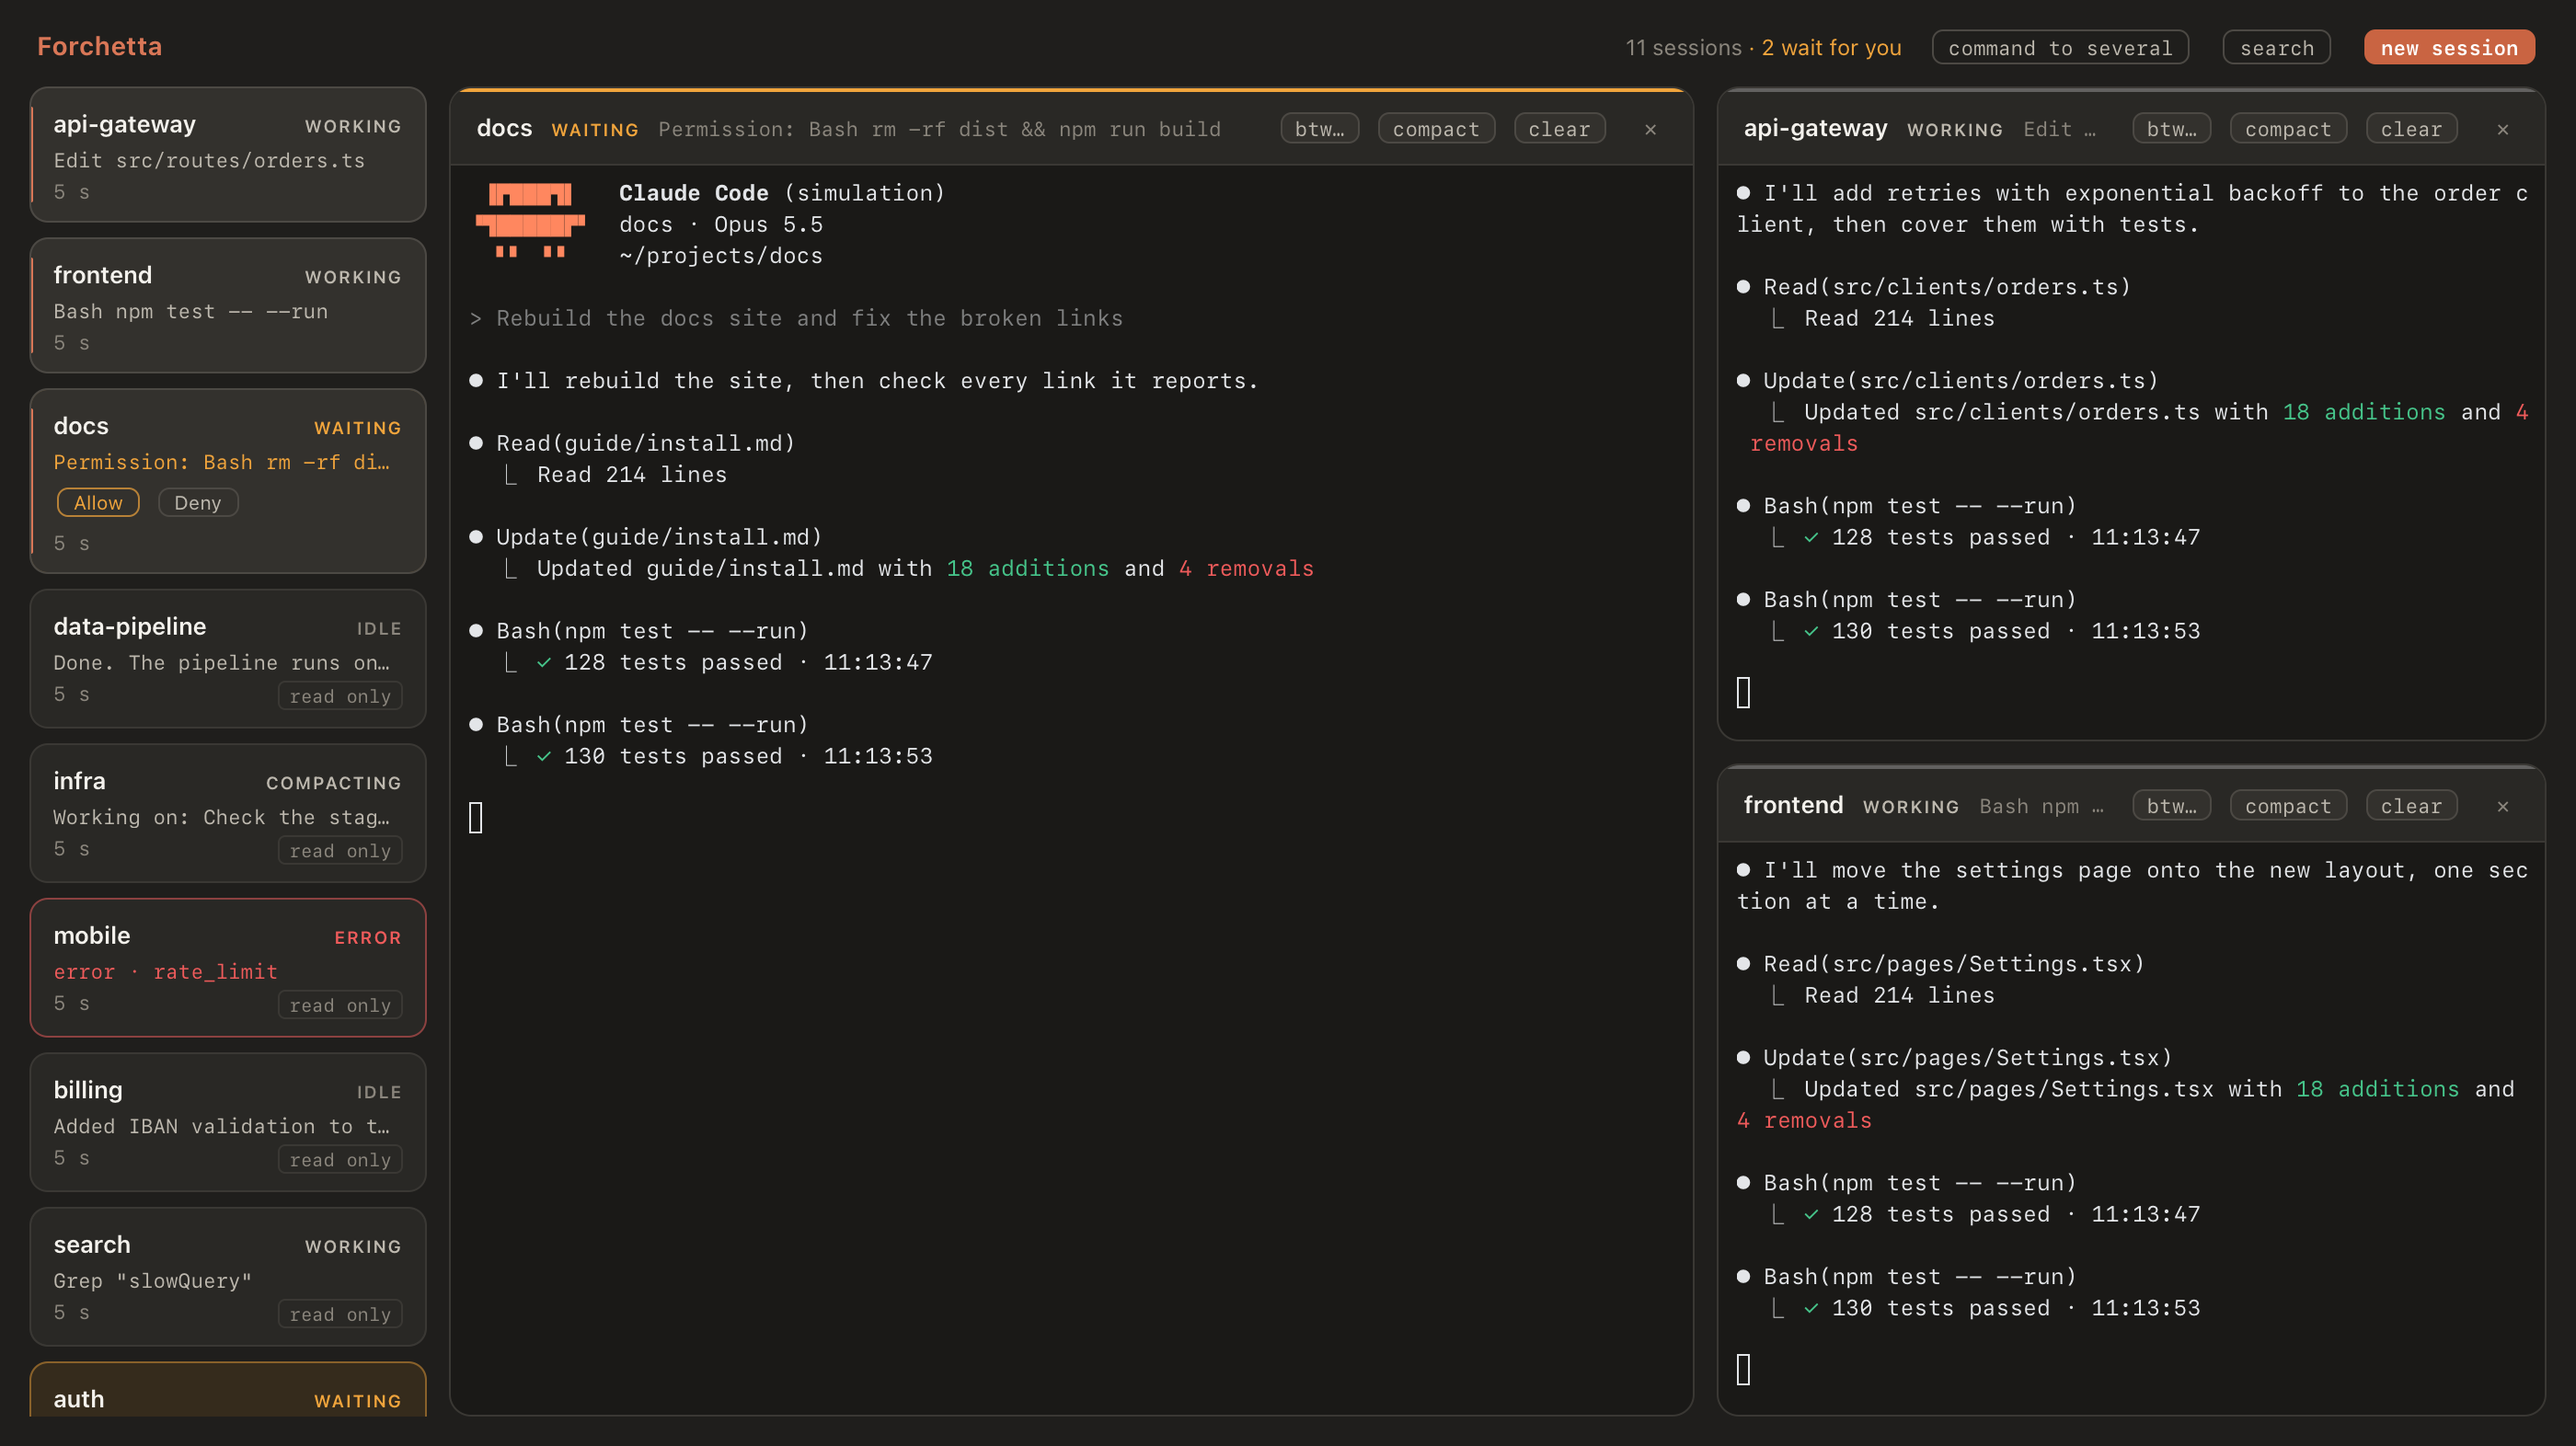
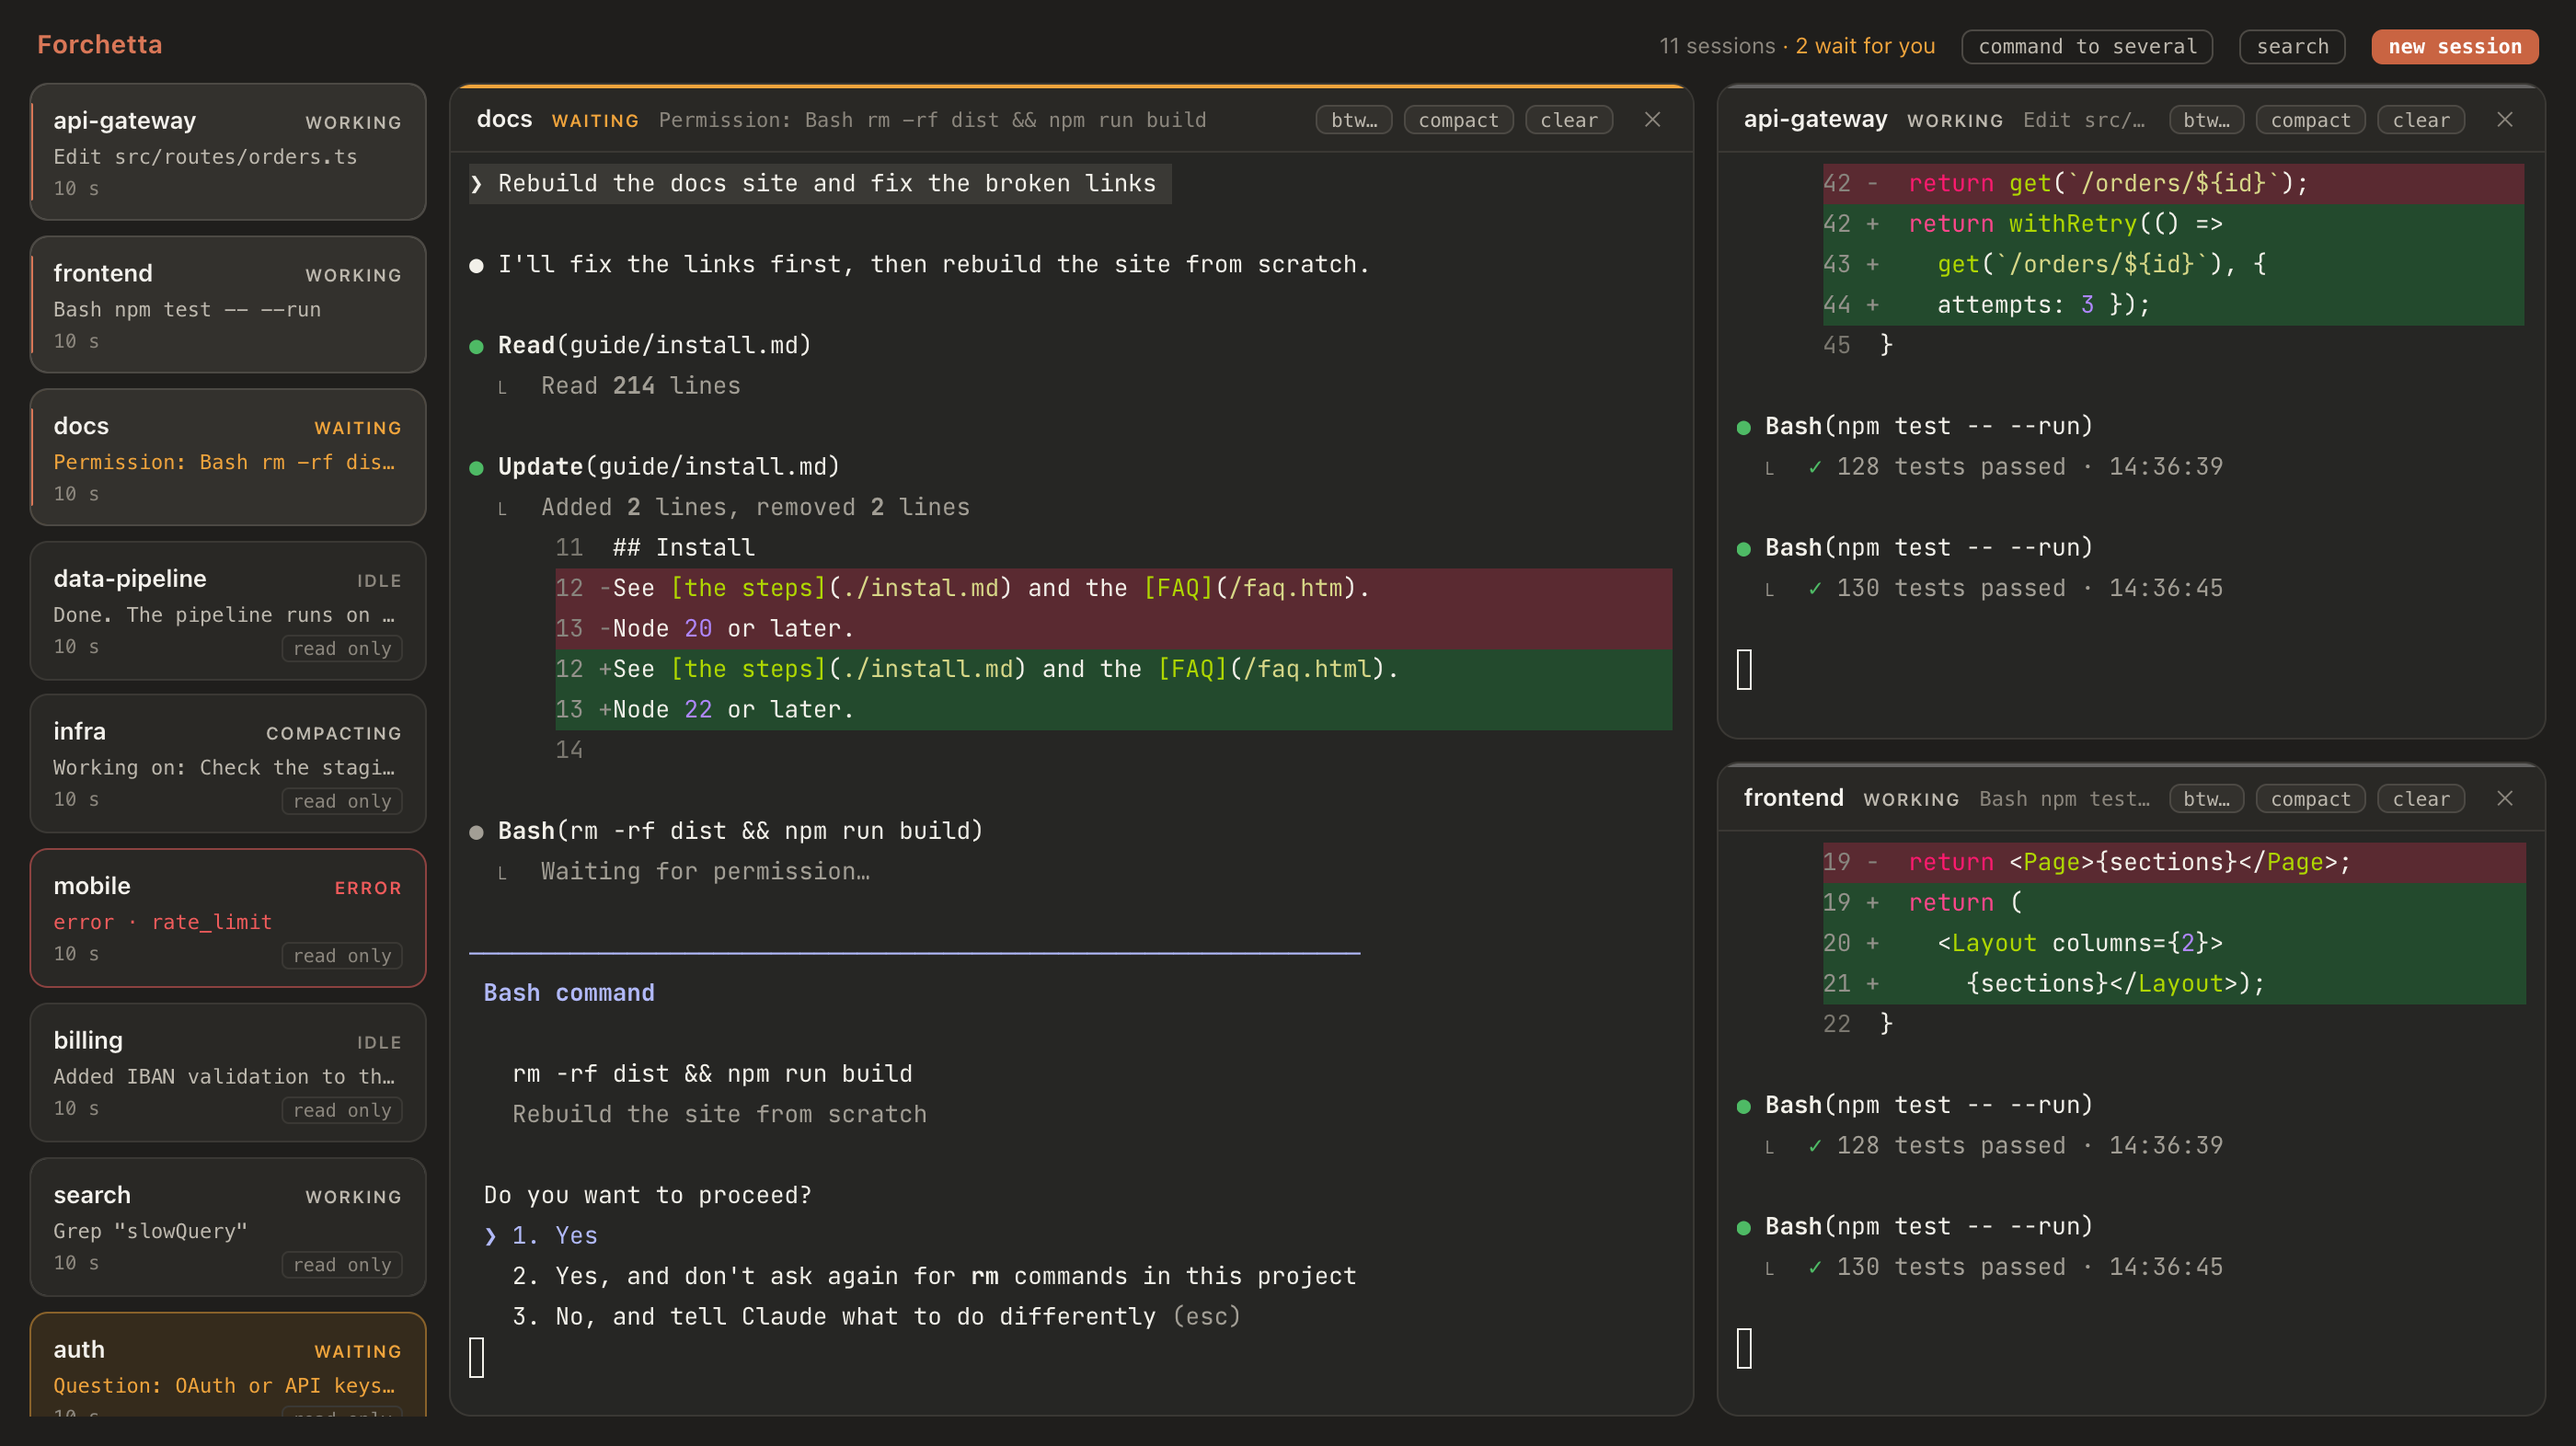
Forchetta 0.7.2: lo screenshot dei terminali nuovi, la licenza del font nell'archivio
- docs/img/workspace.png rifatto dalla simulazione: i colori veri di Claude Code e JetBrains Mono
- scripts/dev/demo-tui.sh scrive come Claude Code dentro tmux, con gli stessi indici dei 256 colori: diff con la
  sintassi, il punto verde dei tool, la domanda di un permesso; righe corte per i riquadri stretti
- la build copia OFL.txt in dist/ui/fonts: l'archivio della release ha dist/ e non src/
- versione 0.7.2

diff --git a/src/shared/version.ts b/src/shared/version.ts
@@ -1,1 +1,1 @@
-export const VERSION = '0.7.1';
+export const VERSION = '0.7.2';

diff --git a/README.md b/README.md
@@ -29,7 +29,7 @@ Forchetta finds the Claude Code sessions you have running and shows, live, what 
 
 ## What it does
 
-Version 0.7.1:
+Version 0.7.2:
 - finds the Claude Code sessions that are running and shows a box for each one, with its state, current action, summary, context, cache and cost;
 - opens up to 4 sessions side by side, in real terminals attached to tmux;
 - sends `/btw`, `/compact` and `/clear` to one session or to several, only when it is safe;

diff --git a/README.it.md b/README.it.md
@@ -29,7 +29,7 @@ Forchetta trova le sessioni di Claude Code che hai aperto e mostra in tempo real
 
 ## Cosa fa
 
-Versione 0.7.1:
+Versione 0.7.2:
 - trova da sola le sessioni Claude Code attive e mostra per ognuna un box con stato, azione in corso, riassunto, contesto, cache e costo;
 - apre fino a 4 sessioni affiancate in terminali veri, agganciati a tmux;
 - manda `/btw`, `/compact` e `/clear` a una o più sessioni, solo quando è sicuro;
